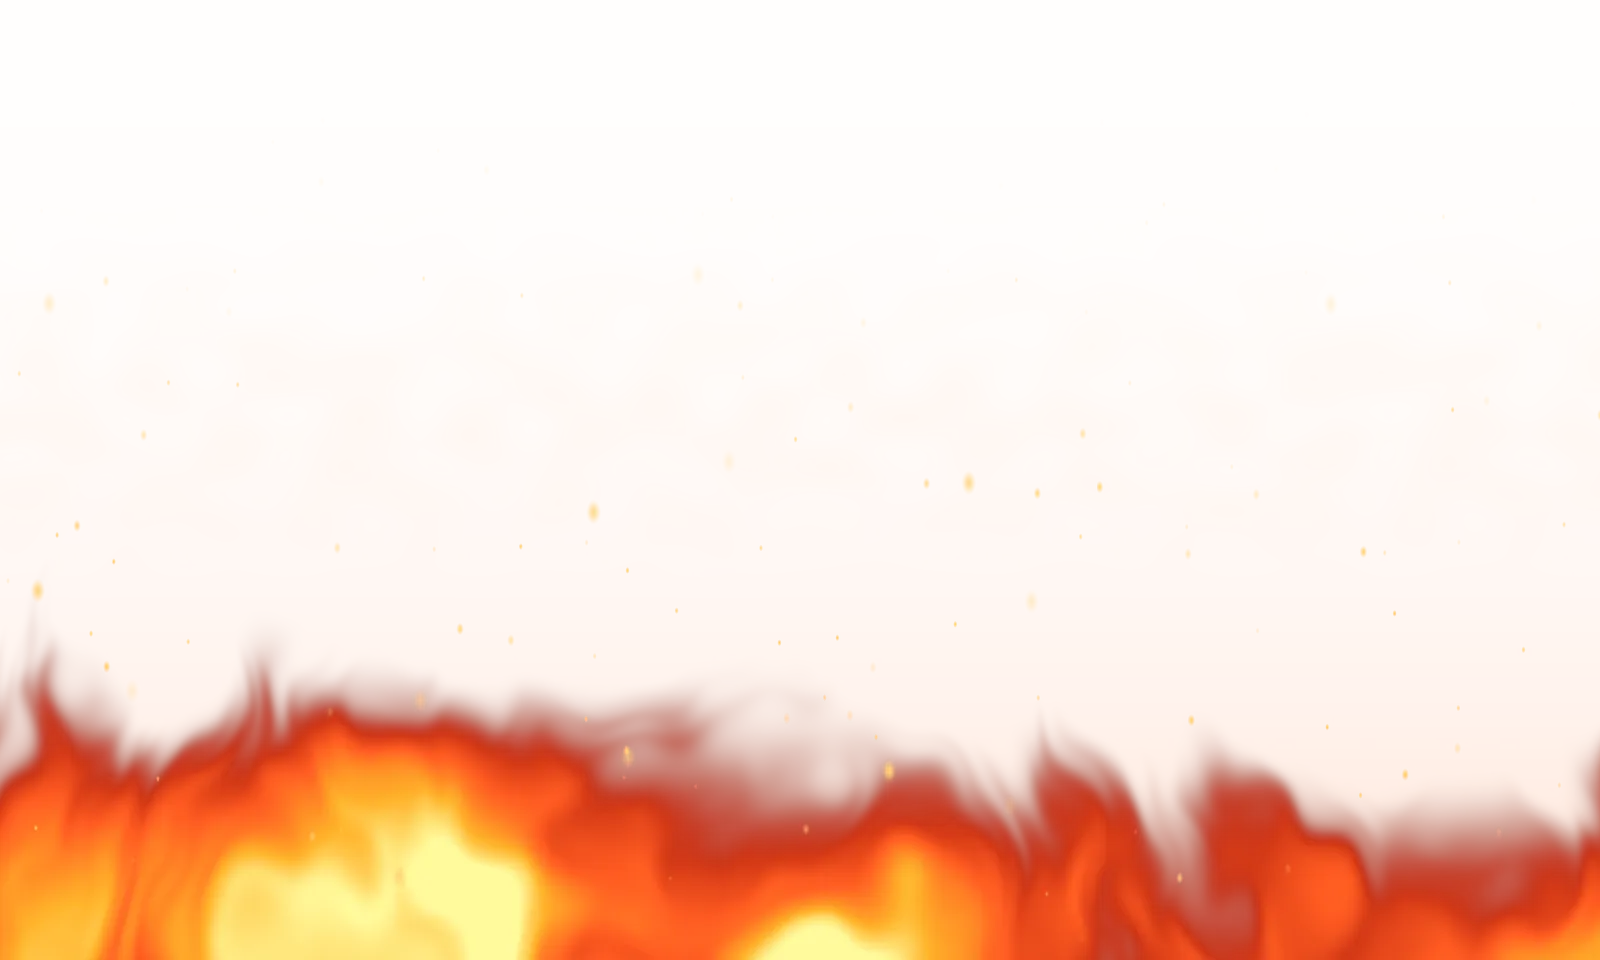
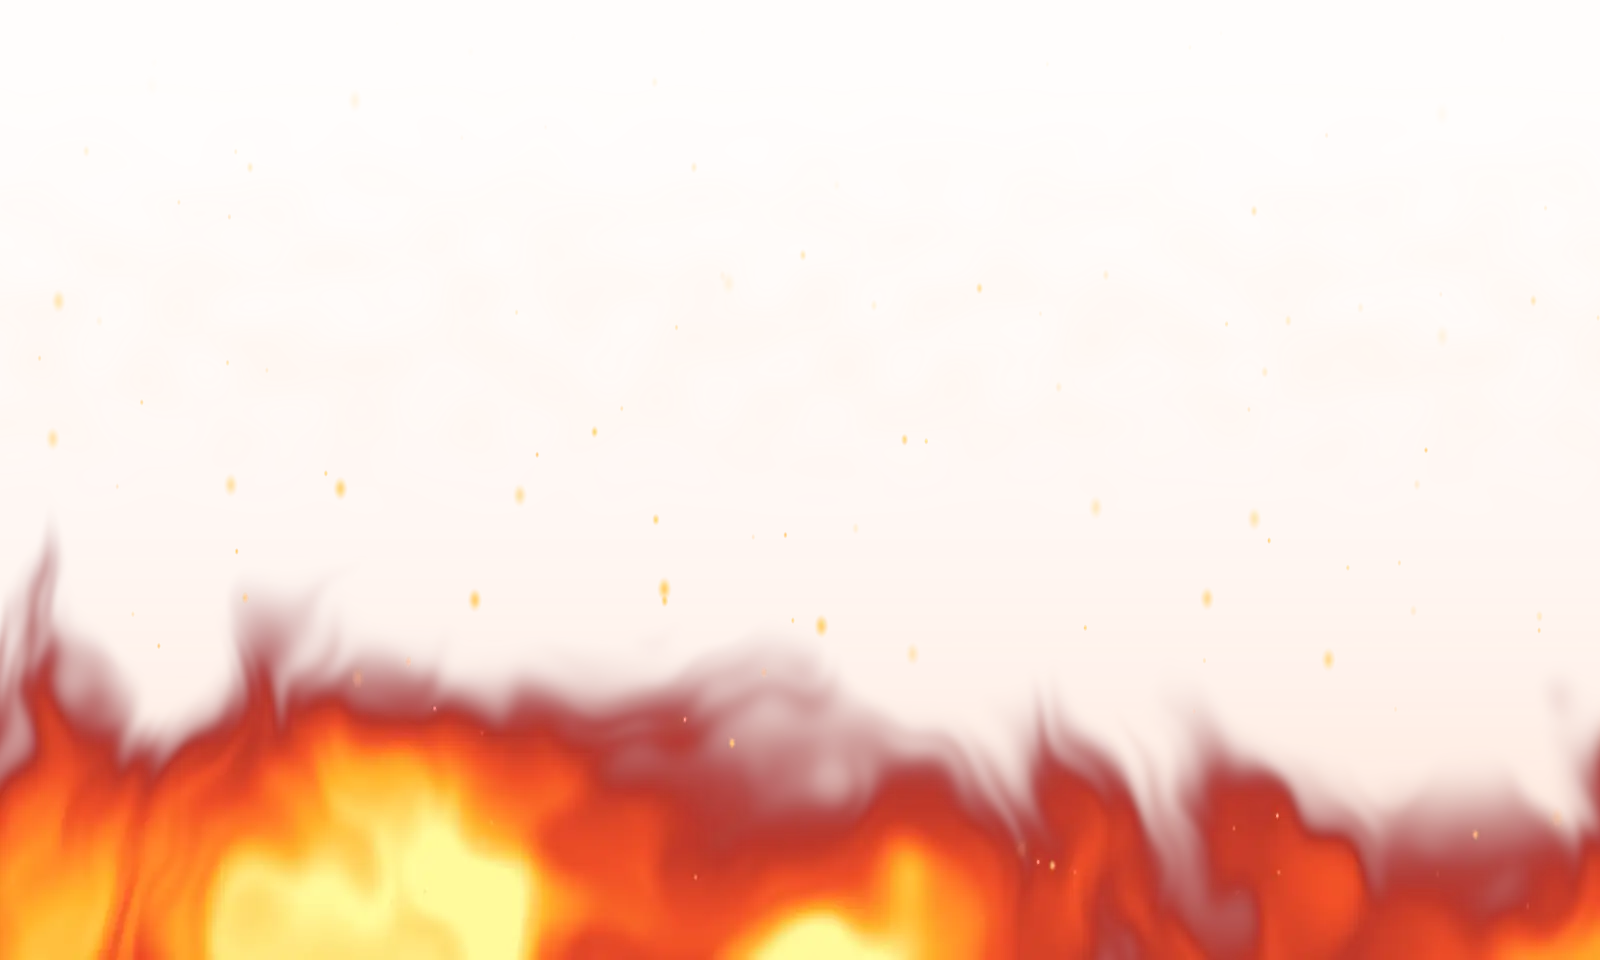
Home hero: taller fire
The flames reach higher (72% of the hero instead of 62% on wider screens), so more of the
fire shows above the fade at the bottom of the screen; they still rise from the bottom
edge. The first-paint poster images are re-rendered from the same shader at the new
height, so nothing jumps when the live fire takes over.

Claude-Session: https://claude.ai/code/session_01Vszuj8dCXGGJCrJQmNs6VH

diff --git a/site/public/js/components/flame/flame-background.js b/site/public/js/components/flame/flame-background.js
@@ -15,7 +15,7 @@ const TUNING = {
   /** Animation speed (1 = calm and hypnotic). */
   speed: 1,
   /** Flame height as a fraction of the hero; heroes narrower than `narrowWidth` get a lower strip. */
-  height: 0.62,
+  height: 0.72,
   narrowHeight: 0.5,
   narrowWidth: 760,
   /** How much the tongues curl (0.5 calm – 1.6 wild). */
